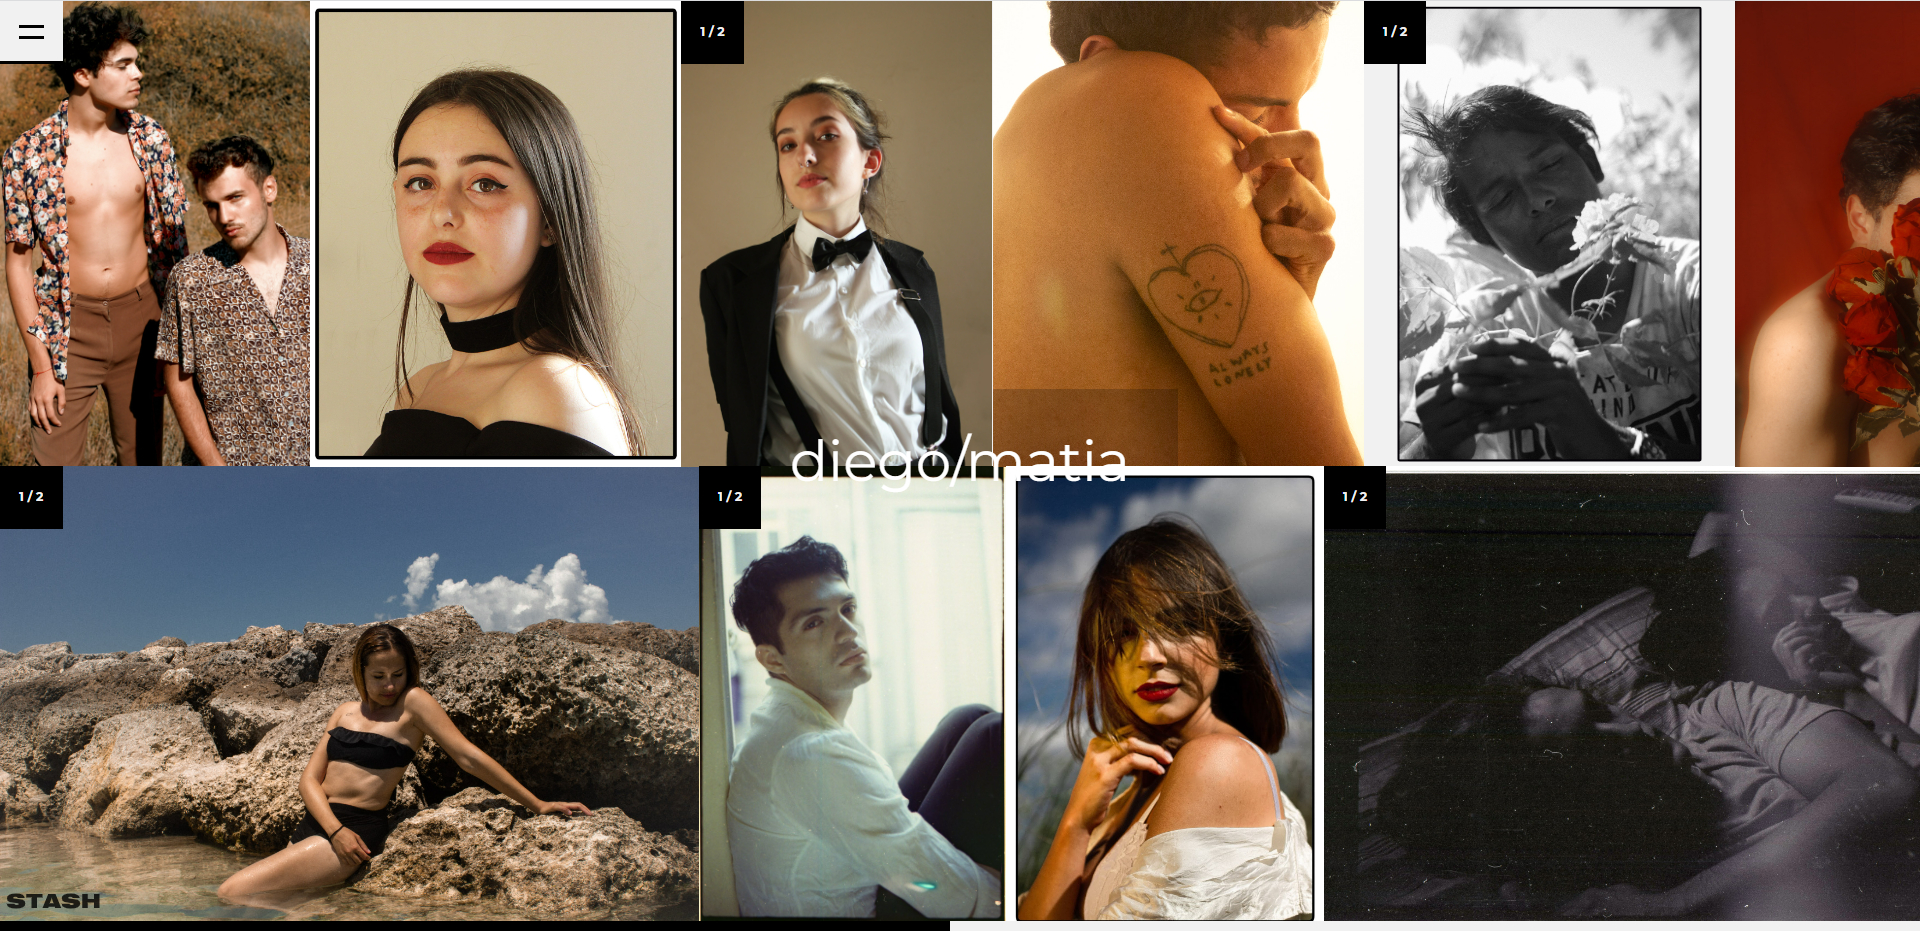
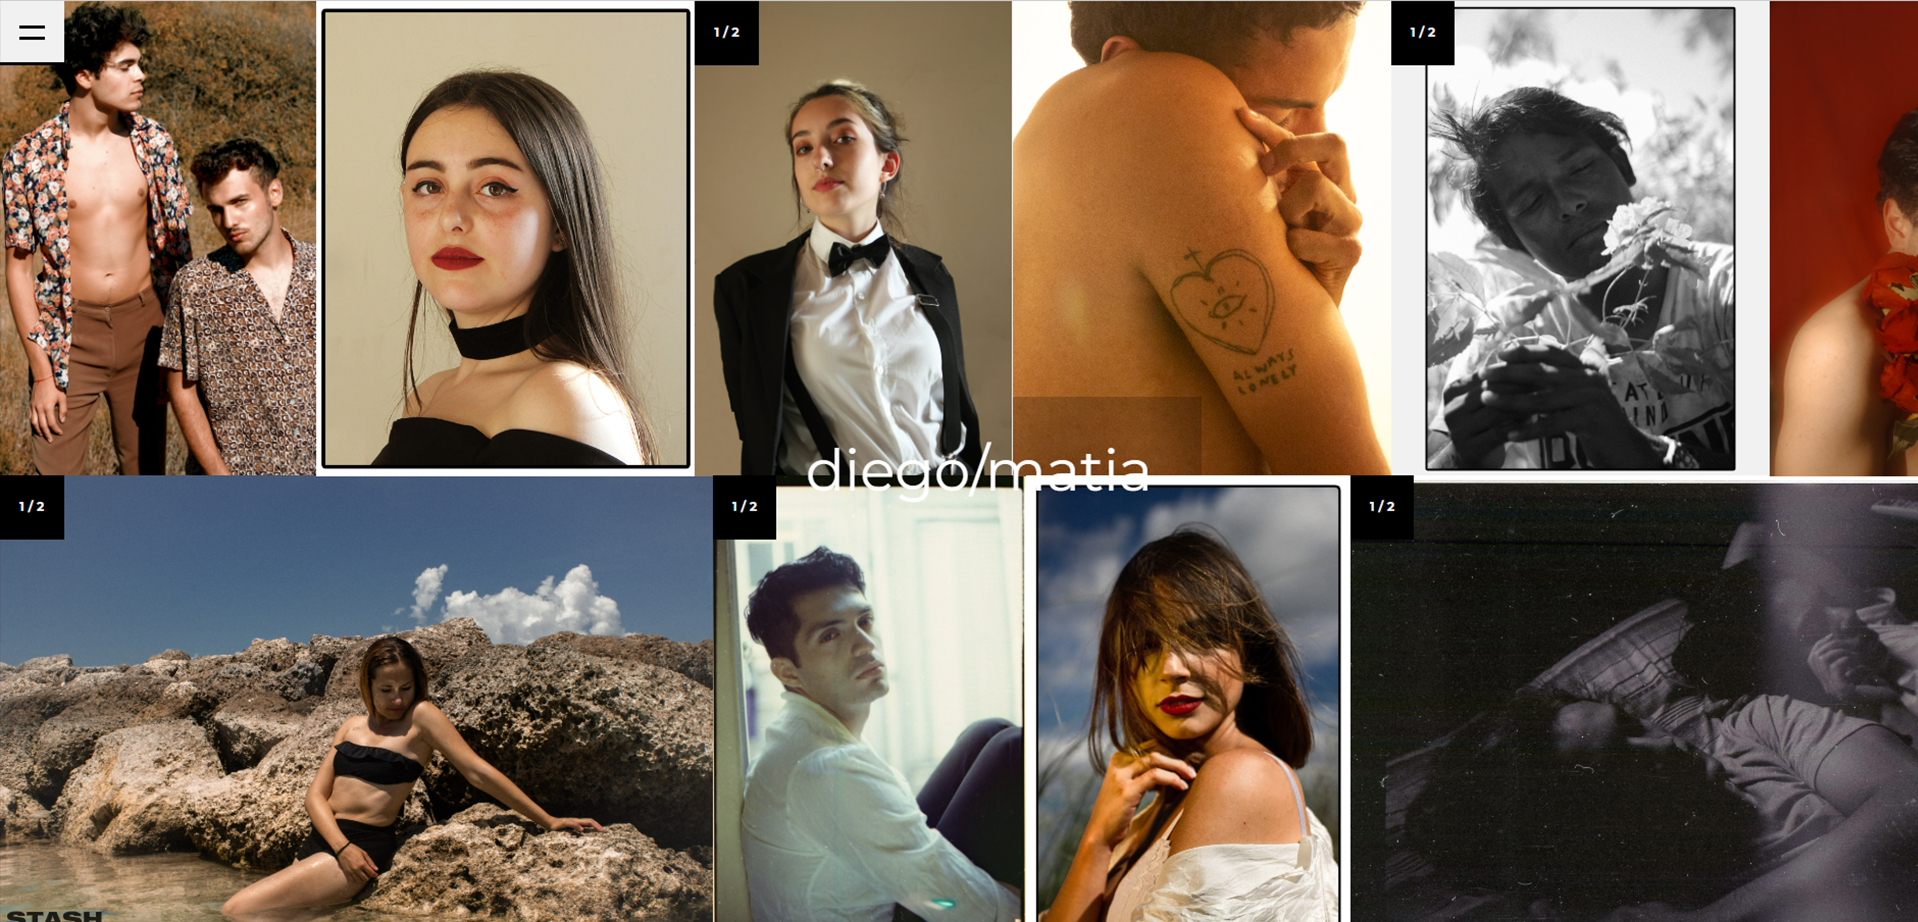
Comienzo responsive

diff --git a/index.css b/index.css
@@ -102,6 +102,7 @@ header{
   align-content: center;
 }
 
+
 .main a, p, pre{
   font-family: 'Coolveti';
 }
@@ -133,6 +134,12 @@ margin-left: 1rem;
 font-size: 8rem;
 color: white;
 }
+
+.title:hover::after{
+  font-family: Arial, Helvetica, sans-serif;
+  content: " abrir »";
+  font-size: 2rem;
+  }
 
 .contact form{
   font-family: 'Coolveti';
@@ -225,6 +232,7 @@ padding-top: 15vh;
   background-image: url(img/a.jpg);
   display: grid;
   grid-template-rows: 30% 70%;
+  box-shadow: -5px 5px #000;
 }
 
 
@@ -254,23 +262,34 @@ padding-top: 15vh;
   right: 0;
   bottom: 0;
   left: 0;
-  background-image: linear-gradient(to left,
-  rgba(255,248,0,1) 0%, 
-  rgba(253,111,132,1) 75%,
-  rgba(252,70,172,1) 100%);
+  background-image: radial-gradient(circle, rgba(255,0,5,1) 0%,
+    rgba(143,163,0,1) 20%,
+     rgba(53,104,254,1) 35%,
+      rgba(253,111,132,1) 40%,
+       rgba(254,198,48,1) 53%,
+        rgba(252,70,172,1) 65%,
+        rgba(253,159,85,1) 75%,
+        rgba(254,46,106,1) 100%);
   z-index: -1;
-  transition: opacity 5s ease-in;
+  transition: 5s ease-in;
   opacity: 0;
 }
 
 .main_do:hover::before {
 opacity: 1;
+transition: 3s ease-in;
 }
 
 .do_exp{
   display: block;
   padding-top: 10vh;
+  color: #fff
+}
 
+.titulo_exp:hover::after, .experience_exp:hover::after, .projects_exp:hover::after, .contact_exp:hover::after, .do_exp:hover::after{
+font-family: Arial, Helvetica, sans-serif;
+content: " cerrar »";
+font-size: 2rem;
 }
 
 .main_experience {
@@ -282,6 +301,8 @@ opacity: 1;
   }
 
   .main_projects{
+    border-radius: 20px;
+    padding: 1em;
     background: linear-gradient(90deg,
      rgba(253,159,85,1) 0%,
       rgba(254,46,106,1) 17%,
@@ -292,14 +313,30 @@ opacity: 1;
            rgba(251,252,70,1) 100%);
   }
 
+*::-webkit-scrollbar{
+    width: 1rem;
+    height: 1rem;
+  }
+*::-webkit-scrollbar-thumb{
+    background-color: #fff;
+  }
+
+*::-webkit-scrollbar-thumb:hover{
+    background-color: #777;
+  }
+
+  *::-webkit-scrollbar-track-piece{
+    color: #0077b5;
+  }
+
+
+  
+
   .projects_exp{
     display: block;
     height: 10vh;
   }
-  .projects_exp::before{
-    content: " ";
-  }
-
+  
   .projects{
     display: grid;
     grid-template-columns: 50% 50% 50% 50%;
@@ -307,16 +344,21 @@ opacity: 1;
   }
   
   .project_child {
+    height: min-content;
+    max-height: 70vh;
+    background-color: #d62976;
     border: 10px solid #d62976;
     border-radius: 25px;
     margin: 0 0 .1em .1em;
     background-color: aliceblue;
+    overflow-y: auto;
   }
 
   .project_child .info{
     font-size: 2.5rem;
     width: 90%;
     margin: auto;
+    background-color: #fff;
   }
 
   .child_title{
@@ -344,7 +386,7 @@ opacity: 1;
     font-family: 'Coolveti';
     color: #fff;
     background: rgb(0,0,0);
-background: linear-gradient(0deg, rgba(0,0,0,0.2274159663865546) 0%, rgba(253,45,154,0.3562675070028011) 100%);
+    background: linear-gradient(0deg, rgba(0,0,0,0.2274159663865546) 0%, rgba(253,45,154,0.3562675070028011) 100%);
     width: 15vh;
     height: 5vh;
     font-size: 2rem;
@@ -359,4 +401,90 @@ display: none !important;
 }
  *::selection{
   background-color: #feda75;
+ }
+
+/*
+ ------------------------------ 
+ ------------------------------
+         DISP. MOVILES
+ -----------------------------
+ ----------------------------
+ */
+
+ @media screen and (max-width: 700px) {
+  
+header{
+  width: 100vw;
+  height: 5vh;
+  display: grid;
+  grid-template-columns: auto auto;
+  margin: auto;
+  align-items: left;
+  font-family: 'Coolveti';
+}
+
+.header-left h1{
+  font-size: 3rem;
+  transition: color 1.5s ease-out, font-size .5s;
+}
+
+.header-left h1:hover{
+  font-size: 3.3rem;
+  color: #ff8a00;
+}
+
+
+
+.header-right{
+  text-align: right;
+  font-size: 2rem;
+}
+.header-right a{
+  transition: .3s;
+}
+
+.header-right a{
+  color: #000;
+  text-decoration: none;
+}
+
+.header-right a:hover{
+  font-size: 2.5rem;
+}
+
+.fa-linkedin:hover{
+  color: #0077b5;
+}
+
+.fa-instagram:hover{
+background: -webkit-linear-gradient(#feda75, #fa7e1e, #d62976, #962fbf, #4f5bd5);
+-webkit-background-clip: text;
+-webkit-text-fill-color: transparent;
+}
+
+#main{
+  height: 90vh;
+  width: 100vw;
+}
+
+.main_aboutme{
+  background-color: #fa7e1e;
+  background-size: contain;
+  background-position: top;
+}
+
+.section_body p{
+  
+  font-size: 5rem;
+}
+
+.title{
+  font-size: 8rem !important;
+}
+
+
+
+
+
+
  }

diff --git a/index.html b/index.html
@@ -25,11 +25,11 @@
     <div class="section aboutme transicion" id="aboutme">
         <a class="title transicion">sobre mí</a>
         <div class="section_body transicion">
-            <pre>
+            <p>
  me llamo diego, tengo 26 años
  y vivo en buenos aires,
  argentina
-          </pre>
+          </p>
         </div>
     </div>
 
@@ -43,27 +43,36 @@
     <div class="section" id="experience">
         <a class="title">experiencia</a>
         <div class="section_body experience">
-            <pre>cursando el último año 
+            <p>cursando el último año 
 de la tecnicatura superior 
-en programación en la UTN</pre>
+en programación en la UTN</p>
         </div>
     </div>
 
     <div class="section" id="projects">
         <a class="title">proyectos</a>
         <div class="section_body projects">
-            <div class="project_child">
-                <p>proyecto 1</p>
-                <img src="">
-                <button>ver más</button>
-            </div>
 
             <div class="project_child">
-                <p class="child_title">Suárez, homenaje de baja fidelidad   </p>
+                <p class="child_title">Proyecto catalogo</p>
+                <img src="img/pr3.png">
+                <p class="info">
+                    WINFORM | C# | .NET <br>
+                    Proyecto para la materia Programación 3 de TUP en la UTN.
+                </p>
+                <div class="buttons">
+                <button>ver proyecto</button>
+            </div>
+            </div>
+
+
+
+            <div class="project_child">
+                <p class="child_title">Suárez, homenaje de baja fidelidad</p>
                 <img src="img/suarez.png">
                 <p class="info">
-                HTML | CSS | JS <br>
-                <i>Suárez, Homenaje de baja fidelidad</i> recopila información sobre la banda hito de los '90s, Suárez, liderada por Rosario Bléfari </p>
+                SITIO WEB ESTATICO | HTML | CSS | JS <br>
+                <i>Suárez, Homenaje de baja fidelidad</i> recopila información sobre la banda hito de los '90s, Suárez, liderada por Rosario Bléfari. </p>
                 <div class="buttons">
                 <button>ver código</button>
                 <button>ver sitio</button>
@@ -72,15 +81,26 @@ en programación en la UTN</pre>
 
     
             <div class="project_child">
-                <p>proyecto 3</p>
-                <img src="">
-                <button>ver más</button>
+                <p class="child_title">Mmmburger</p>
+                <img src="img/mmmburger.png">
+                <p class="info">
+                PROGRAMA DE CONSOLA | C | C++ <br>
+                Proyecto final de la materia <i>Labotario de computación II</i>de TUP en la UTN
+                </p>
+                <div class="buttons">
+                <button>ver código</button>
+            </div>
             </div>
 
             <div class="project_child">
-                <p>proyecto 4</p>
-                <img src="">
-                <button>ver más</button>
+                <p class="child_title">Porftolio fotografico</p>
+                <img src="img/dmatia.png">
+                <p class="info">
+                    Este es el sitio donde muestro mi trabajo fotografico.
+                </p>
+                <div class="buttons">
+                <button>ver sitio</button>
+            </div>
             </div>
 
         </div>
